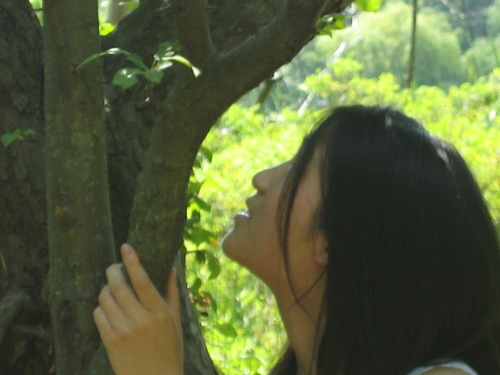
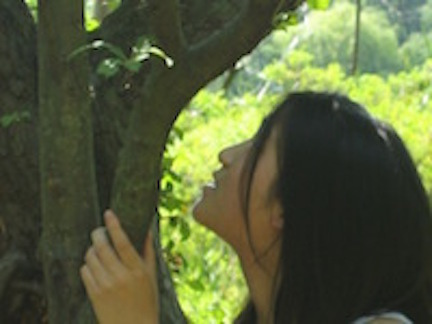
contact pic

diff --git a/stylesheet.css b/stylesheet.css
@@ -257,9 +257,9 @@ span{
 }
 
 .contact img {
-	width: 70%;
-	margin-left: 15%;
-	margin-right: 15%;
+	width: 50%;
+	margin-left: 25%;
+	margin-right: 25%;
 	margin-top: 50px;
 	margin-bottom: 50px;
 }
